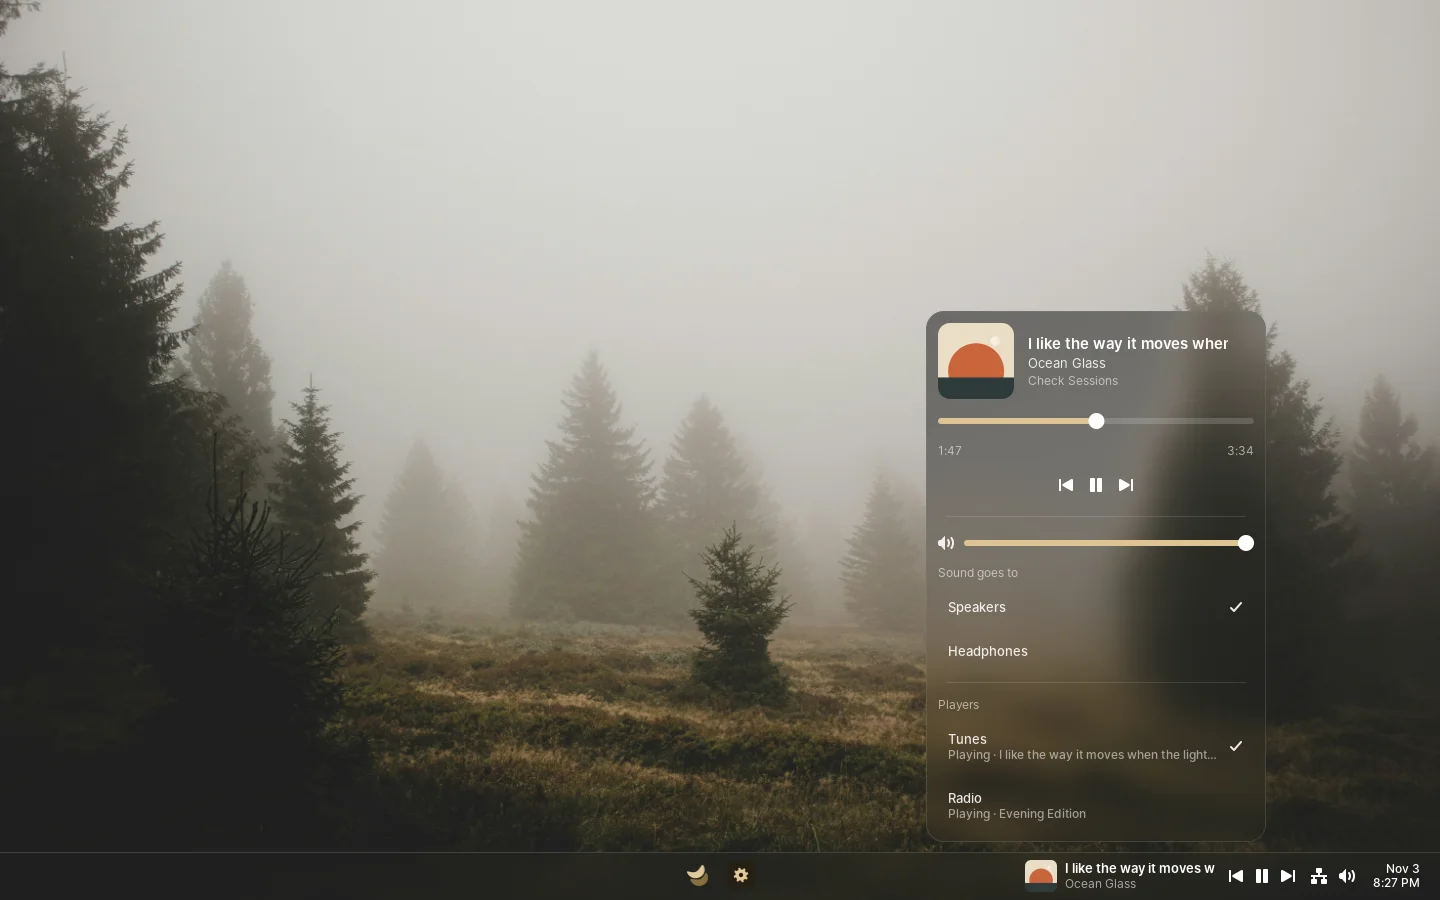
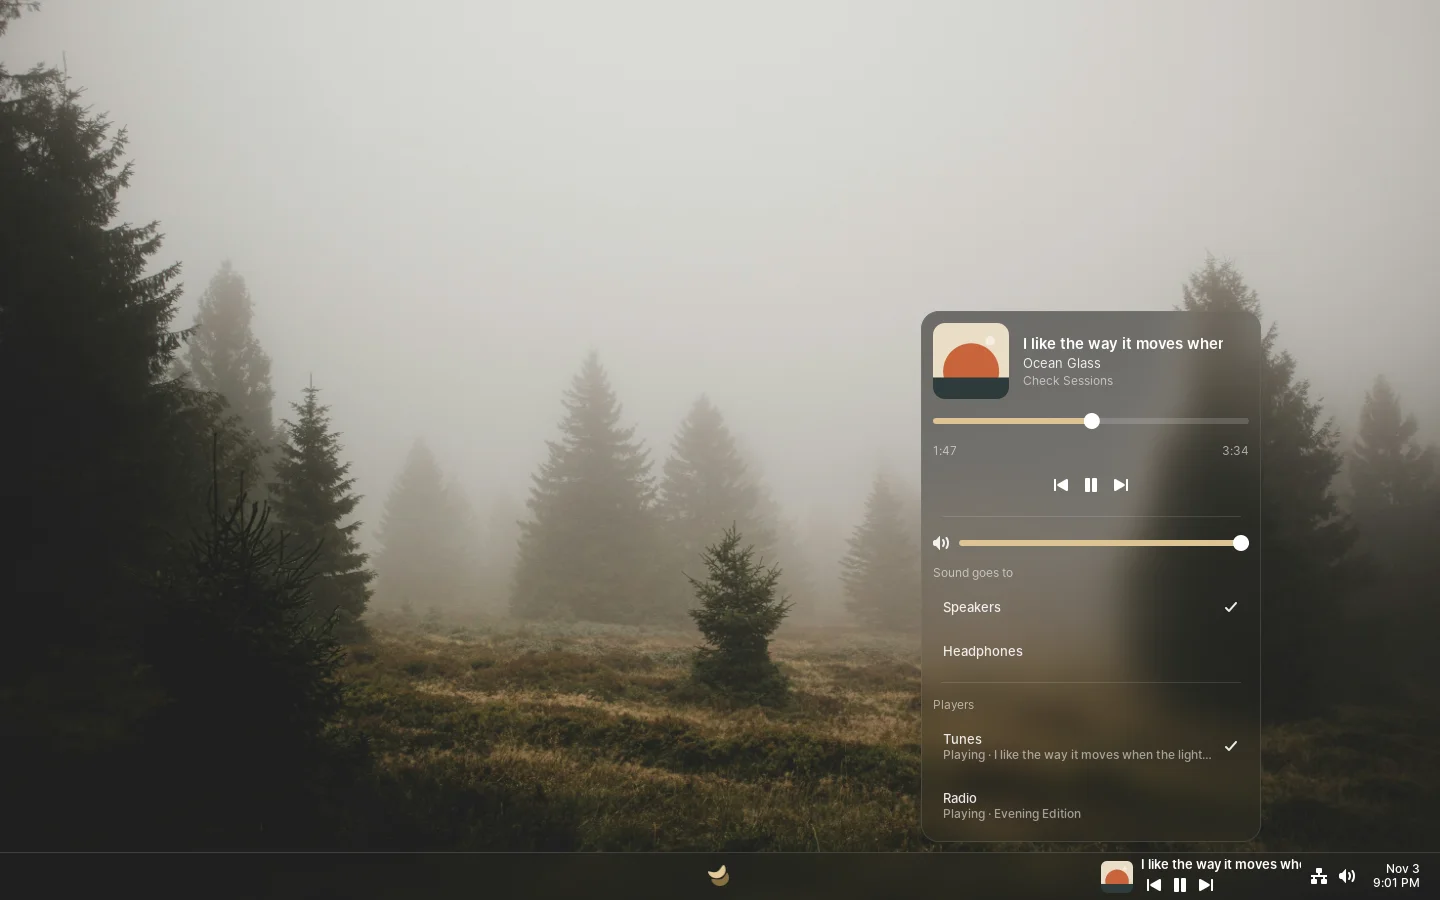
Give Now Playing a compact default, a wide, a no-controls and a cover-only layout, a widest width and a choice of second line

diff --git a/extensions/now-playing/src/element.ts b/extensions/now-playing/src/element.ts
@@ -4,13 +4,16 @@ import type { Following } from './following.js';
 import { clock } from './time.js';
 
 type Granted = 'taskbar' | 'media' | 'popups';
+export type Layout = 'compact' | 'full' | 'no-controls' | 'cover';
 
-const TEXT_WIDTH = 150;
+const SPACING = 8;
+const CONTROL = 26;
+const SMALLEST_TEXT = 60;
 const PROGRESS_WIDTH = 120;
 
-export function cover(player: MediaPlayer, size: number, radius: number): View {
+export function cover(player: MediaPlayer, size: number, radius: number, progress?: number): View {
   return player.artwork
-    ? { type: 'image', path: player.artwork, width: size, height: size, radius }
+    ? { type: 'image', path: player.artwork, width: size, height: size, radius, progress }
     : { type: 'icon', icon: 'audio-x-generic-symbolic', size: Math.round(size * 0.6) };
 }
 
@@ -29,41 +32,72 @@ export function controls(extension: Extension<Granted>, player: MediaPlayer, ver
   };
 }
 
-function words(extension: Extension<Granted>, player: MediaPlayer): View {
+/** What people chose to see, read once per build. */
+function choices(extension: Extension<Granted>) {
+  const layout = extension.settings.get<Layout>('layout');
+  const second = extension.settings.get<string>('second-line');
+  return {
+    layout,
+    second: second === 'controls' && layout !== 'compact' ? 'artist' : second,
+    maxWidth: extension.settings.get<number>('max-width'),
+  };
+}
+
+function secondLine(extension: Extension<Granted>, player: MediaPlayer, second: string, width: number): View {
+  if (second === 'controls') return controls(extension, player);
+  const text = second === 'album' ? player.album || player.artist : player.artist;
+  return { type: 'text', text: text || extension.t('unknown-artist'), style: 'caption', maxWidth: width };
+}
+
+function words(extension: Extension<Granted>, player: MediaPlayer, second: string, width: number): View {
   return {
     type: 'column',
     spacing: 0,
     align: 'start',
+    children: [{ type: 'text', text: player.title, style: 'title', maxWidth: width, marquee: true }, secondLine(extension, player, second, width)],
+  };
+}
+
+const coverSize = (layout: ElementLayout) => layout.button - 8;
+
+function textWidth(maxWidth: number, layout: ElementLayout, beside: boolean): number {
+  return Math.max(SMALLEST_TEXT, maxWidth - coverSize(layout) - SPACING - (beside ? 3 * CONTROL + SPACING : 0));
+}
+
+function upright(extension: Extension<Granted>, following: Following, player: MediaPlayer, chosen: Layout, layout: ElementLayout): View {
+  if (chosen === 'cover') return cover(player, layout.button - 4, 0, progressOf(following, player));
+  return {
+    type: 'column', spacing: 4, align: 'center',
+    children: [cover(player, coverSize(layout), 6), ...chosen === 'no-controls' ? [] : [controls(extension, player, true)]],
+  };
+}
+
+const progressOf = (following: Following, player: MediaPlayer) => player.length ? following.position(player) / player.length : 0;
+
+/** What the taskbar shows, in the layout people chose. */
+export function compact(extension: Extension<Granted>, following: Following, layout: ElementLayout): View {
+  const player = following.player;
+  if (!player) return { type: 'spacer' };
+  const { layout: chosen, second, maxWidth } = choices(extension);
+  if (layout.vertical) return upright(extension, following, player, chosen, layout);
+  if (chosen === 'cover') return cover(player, layout.button - 4, 0, progressOf(following, player));
+  const beside = chosen === 'full';
+  return {
+    type: 'row',
+    spacing: SPACING,
     children: [
-      { type: 'text', text: player.title, style: 'title', maxWidth: TEXT_WIDTH, marquee: true },
-      { type: 'text', text: player.artist || extension.t('unknown-artist'), style: 'caption', maxWidth: TEXT_WIDTH },
+      cover(player, coverSize(layout), 6),
+      words(extension, player, second, textWidth(maxWidth, layout, beside)),
+      ...beside ? [controls(extension, player)] : [],
     ],
   };
 }
 
-function parts(extension: Extension<Granted>, player: MediaPlayer, layout: ElementLayout): { art: View[]; text: View[]; buttons: View[] } {
-  const show = extension.settings.get<string>('show');
-  return {
-    art: show !== 'title' ? [cover(player, layout.button - 8, 6)] : [],
-    text: show !== 'cover' ? [words(extension, player)] : [],
-    buttons: extension.settings.get<boolean>('controls') ? [controls(extension, player, layout.vertical)] : [],
-  };
-}
-
-/** What the taskbar shows: the cover, the title and artist, and the controls, as much as people chose. */
-export function compact(extension: Extension<Granted>, following: Following, layout: ElementLayout): View {
-  const player = following.player;
-  if (!player) return { type: 'spacer' };
-  const { art, text, buttons } = parts(extension, player, layout);
-  if (layout.vertical) return { type: 'column', spacing: 4, align: 'center', children: [cover(player, layout.button - 8, 6), ...buttons] };
-  return { type: 'row', spacing: 8, children: [...art, ...text, ...buttons] };
-}
-
-/** What it grows to under the pointer: the same, with how far the track is and which app plays it. */
+/** What it grows to under the pointer: the cover and title with how far the track is and which app plays it. */
 export function expanded(extension: Extension<Granted>, following: Following, layout: ElementLayout): View {
   const player = following.player;
   if (!player || layout.vertical) return compact(extension, following, layout);
-  const { art, text, buttons } = parts(extension, player, layout);
+  const { layout: chosen, second, maxWidth } = choices(extension);
   const position = following.position(player);
   const progress: View = {
     type: 'column',
@@ -77,5 +111,15 @@ export function expanded(extension: Extension<Granted>, following: Following, la
       },
     ],
   };
-  return { type: 'row', spacing: 10, children: [...art, ...text, progress, ...buttons] };
+  const controlled = chosen === 'compact' || chosen === 'full';
+  return {
+    type: 'row',
+    spacing: SPACING + 2,
+    children: [
+      cover(player, coverSize(layout), 6),
+      words(extension, player, second === 'controls' ? 'artist' : second, textWidth(maxWidth, layout, false)),
+      progress,
+      ...controlled ? [controls(extension, player)] : [],
+    ],
+  };
 }

diff --git a/extensions/now-playing/src/extension.ts b/extensions/now-playing/src/extension.ts
@@ -1,6 +1,6 @@
 import type { Enable, Popup } from '@luft/extension-api';
 
-import { compact, expanded } from './element.js';
+import { compact, expanded, type Layout } from './element.js';
 import { Following } from './following.js';
 import { describePage } from './page.js';
 import { nowPlaying } from './popup.js';
@@ -11,12 +11,22 @@ const enable: Enable<Granted> = extension => {
   const { media, settings } = extension;
   let popup: Popup | null = null;
   let stopWatching: (() => void) | null = null;
+  let stopRing: (() => void) | null = null;
 
   const shown = () => {
     const player = following.player;
     return !!player && (player.playing || !settings.get<boolean>('hide-paused'));
   };
+  const keepCoverRingMoving = () => {
+    const wanted = settings.get<Layout>('layout') === 'cover' && !!following.player?.playing;
+    if (wanted && !stopRing) stopRing = following.watch();
+    else if (!wanted && stopRing) {
+      stopRing();
+      stopRing = null;
+    }
+  };
   const changed = () => {
+    keepCoverRingMoving();
     element.update({ shown: shown() });
     if (popup?.open) popup.update(nowPlaying(extension, following));
   };

diff --git a/extensions/now-playing/src/page.ts b/extensions/now-playing/src/page.ts
@@ -10,7 +10,10 @@ export function describePage(extension: Extension<Granted>, following: Following
     const ignored = following.ignored;
     const seen = following.seen;
     return [
-      { items: [{ setting: 'show' }, { setting: 'controls' }, { setting: 'hide-paused' }] },
+      {
+        title: t('look'),
+        items: [{ setting: 'layout' }, { setting: 'second-line' }, { setting: 'max-width' }, { setting: 'hide-paused' }, { type: 'taskbar-place', element: 'now-playing' }],
+      },
       {
         title: t('players'),
         description: t('players-description'),
